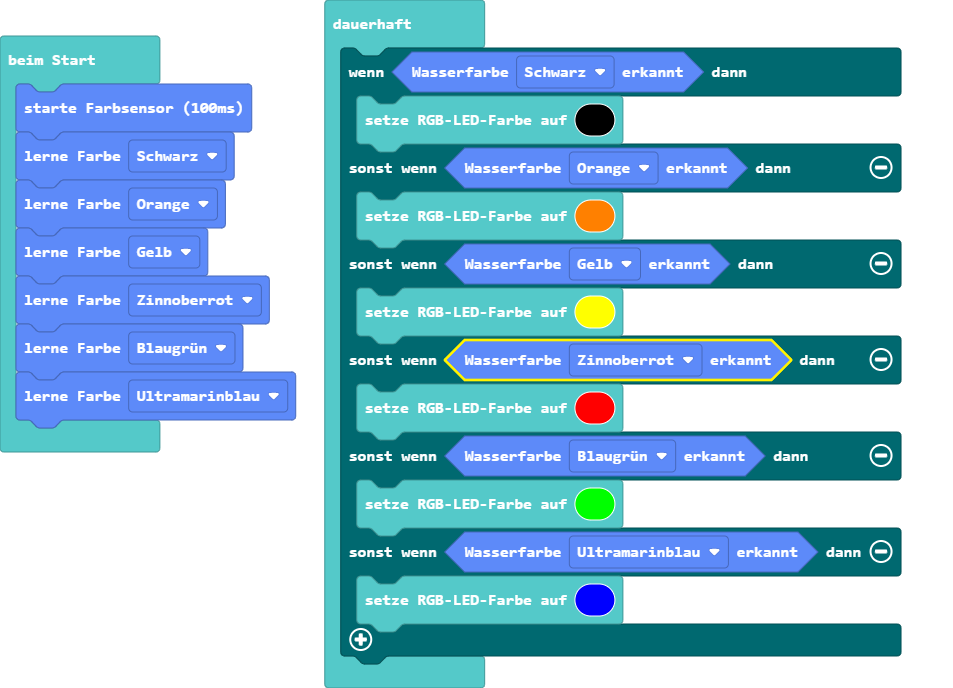
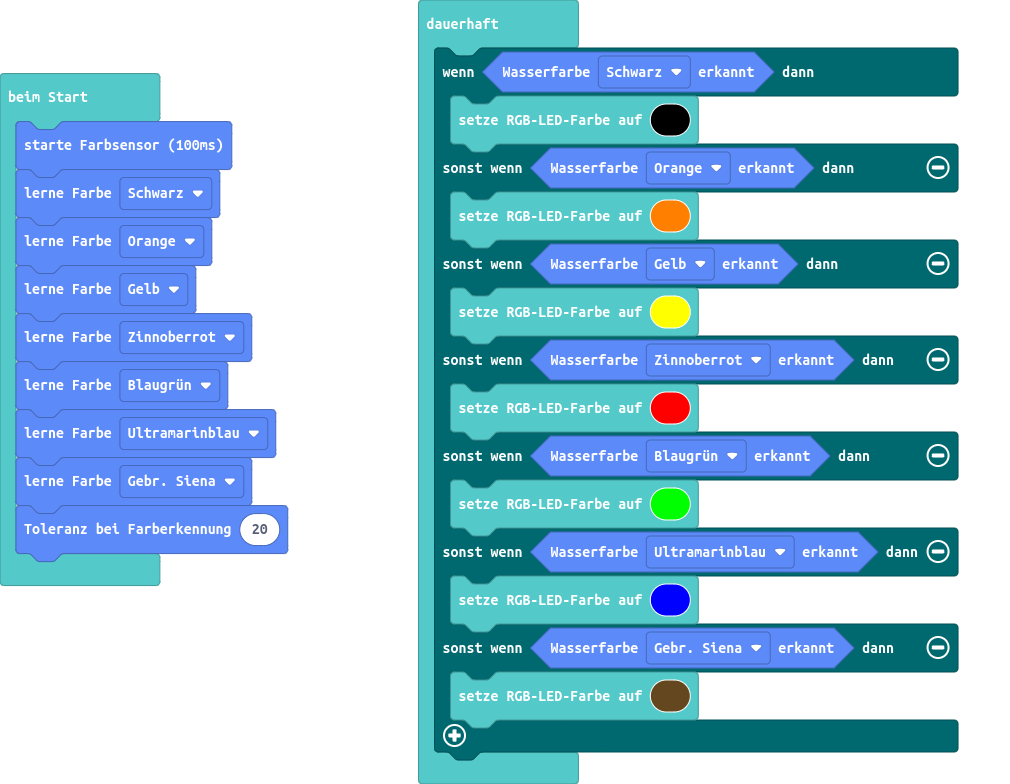
Aktualisiere main.blocks, main.ts

diff --git a/main.ts b/main.ts
@@ -5,6 +5,8 @@ TCS34725.LernFarbe(Wasserfarben.Gelb)
 TCS34725.LernFarbe(Wasserfarben.Zinnober)
 TCS34725.LernFarbe(Wasserfarben.Blaugr)
 TCS34725.LernFarbe(Wasserfarben.Ultramarin)
+TCS34725.LernFarbe(Wasserfarben.GebrSiena)
+TCS34725.Toleranzf(20)
 basic.forever(function () {
     if (TCS34725.Wasserfarbe(Wasserfarben.Schwarz)) {
         basic.setLedColor(0x000000)
@@ -18,5 +20,7 @@ basic.forever(function () {
         basic.setLedColor(0x00ff00)
     } else if (TCS34725.Wasserfarbe(Wasserfarben.Ultramarin)) {
         basic.setLedColor(0x0000ff)
+    } else if (TCS34725.Wasserfarbe(Wasserfarben.GebrSiena)) {
+        basic.setLedColor(0x65471f)
     }
 })
